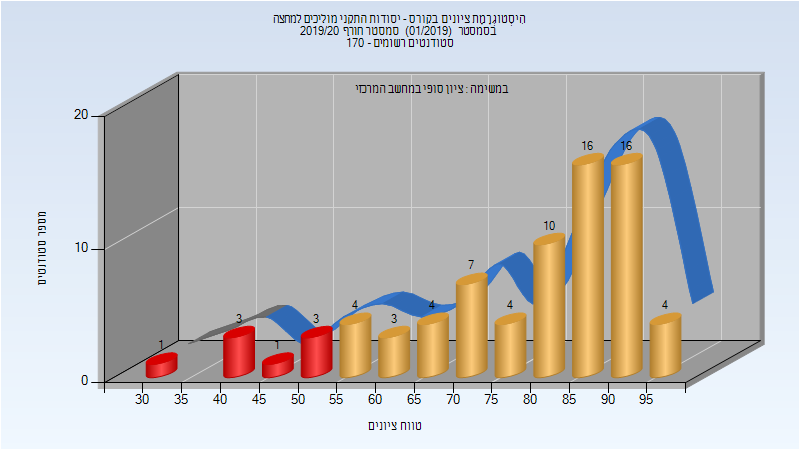
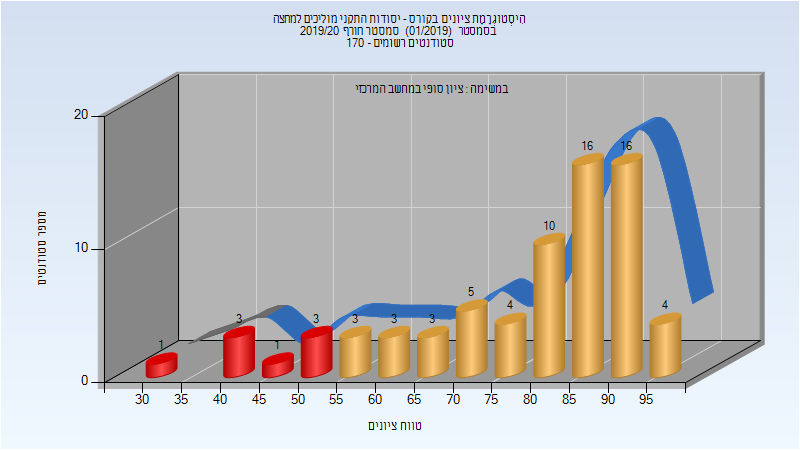
Deploy michael-maltsev/technion-histograms to github.com/michael-maltsev/technion-histograms.git:gh-pages

Changed region(s): [[0.4062, 0.56, 0.6875, 0.7467]]

diff --git a/044127/index.html b/044127/index.html
@@ -223,9 +223,9 @@
 <td>87/8</td>
 <td>92</td>
 <td>34</td>
-<td>500</td>
-<td>162.389</td>
-<td>86</td>
+<td>99</td>
+<td>78.583</td>
+<td>84</td>
 </tr>
 </tbody>
 </table>

diff --git a/044131/index.html b/044131/index.html
@@ -406,8 +406,8 @@
 <td>165/6</td>
 <td>96</td>
 <td>27</td>
-<td>500</td>
-<td>81.363</td>
+<td>100</td>
+<td>78.9</td>
 <td>80</td>
 </tr>
 </tbody>

diff --git a/044131/README.md b/044131/README.md
@@ -124,5 +124,5 @@
 
 | סטודנטים | עברו/נכשלו | אחוז עוברים | ציון מינימלי | ציון מקסימלי | ממוצע | חציון |
 | ---- | ---- | ---- | ---- | ---- | ---- | ---- |
-| 171 | 165/6 | 96 | 27 | 500 | 81.363 | 80 |
+| 171 | 165/6 | 96 | 27 | 100 | 78.9 | 80 |
 

diff --git a/044127/README.md b/044127/README.md
@@ -66,5 +66,5 @@
 
 | סטודנטים | עברו/נכשלו | אחוז עוברים | ציון מינימלי | ציון מקסימלי | ממוצע | חציון |
 | ---- | ---- | ---- | ---- | ---- | ---- | ---- |
-| 95 | 87/8 | 92 | 34 | 500 | 162.389 | 86 |
+| 95 | 87/8 | 92 | 34 | 99 | 78.583 | 84 |
 
